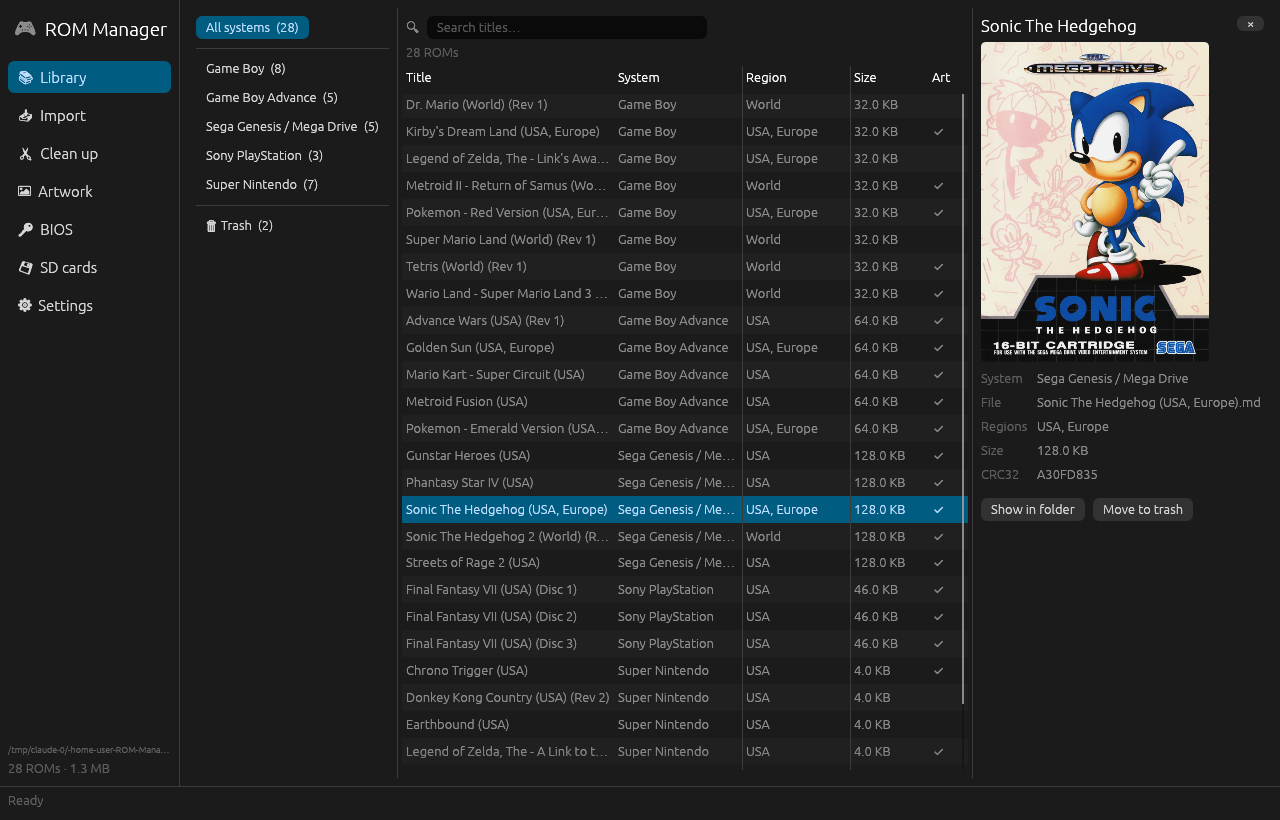
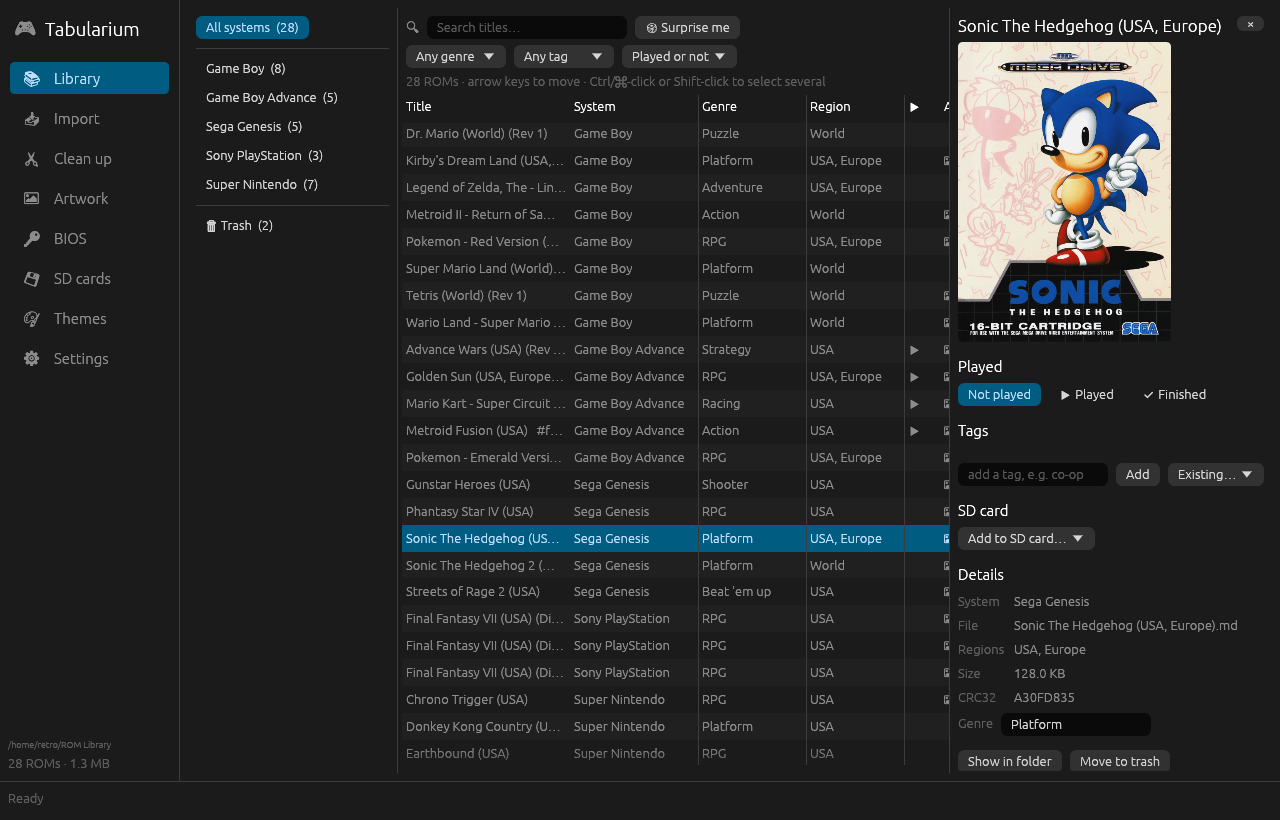
README: current screenshots and a Themes section
Retake the Library and SD card screenshots (they still showed the old
'ROM Manager' name and none of the filters, tags, played tracking or
hand-picked games), and add a Themes section with four themes.

Claude-Session: https://claude.ai/code/session_01QMUyyA2pw9JtqsdSNx7Cop

diff --git a/README.md b/README.md
@@ -115,6 +115,18 @@ your messy folders ──Import──▶ LIBRARY (sorted by system, indexed)
   Library, *🎲 Surprise me* picks a random unplayed game from the current
   list.
 
+### Themes
+
+Tabularium comes in ten looks, picked on the **Themes** page: Standard (follows
+your system's light or dark mode), Game Boy, NES, Commodore 64, Arcade CRT,
+Virtual Boy, Famicom, Atomic Purple, GameCube and Cyberpunk. Each retro theme
+has its own fonts, pixel-art icons, button style, line art of its hardware in
+the sidebar and a short start-up screen. CRT scanlines and an LCD screen effect
+can be switched on with any theme, and the animations and start-up screen can
+be turned off.
+
+![Game Boy, NES, Atomic Purple and Cyberpunk themes](docs/screenshots/themes.png)
+
 ## Supported handheld firmware
 
 | Firmware | Devices | ROMs | Artwork | BIOS |
